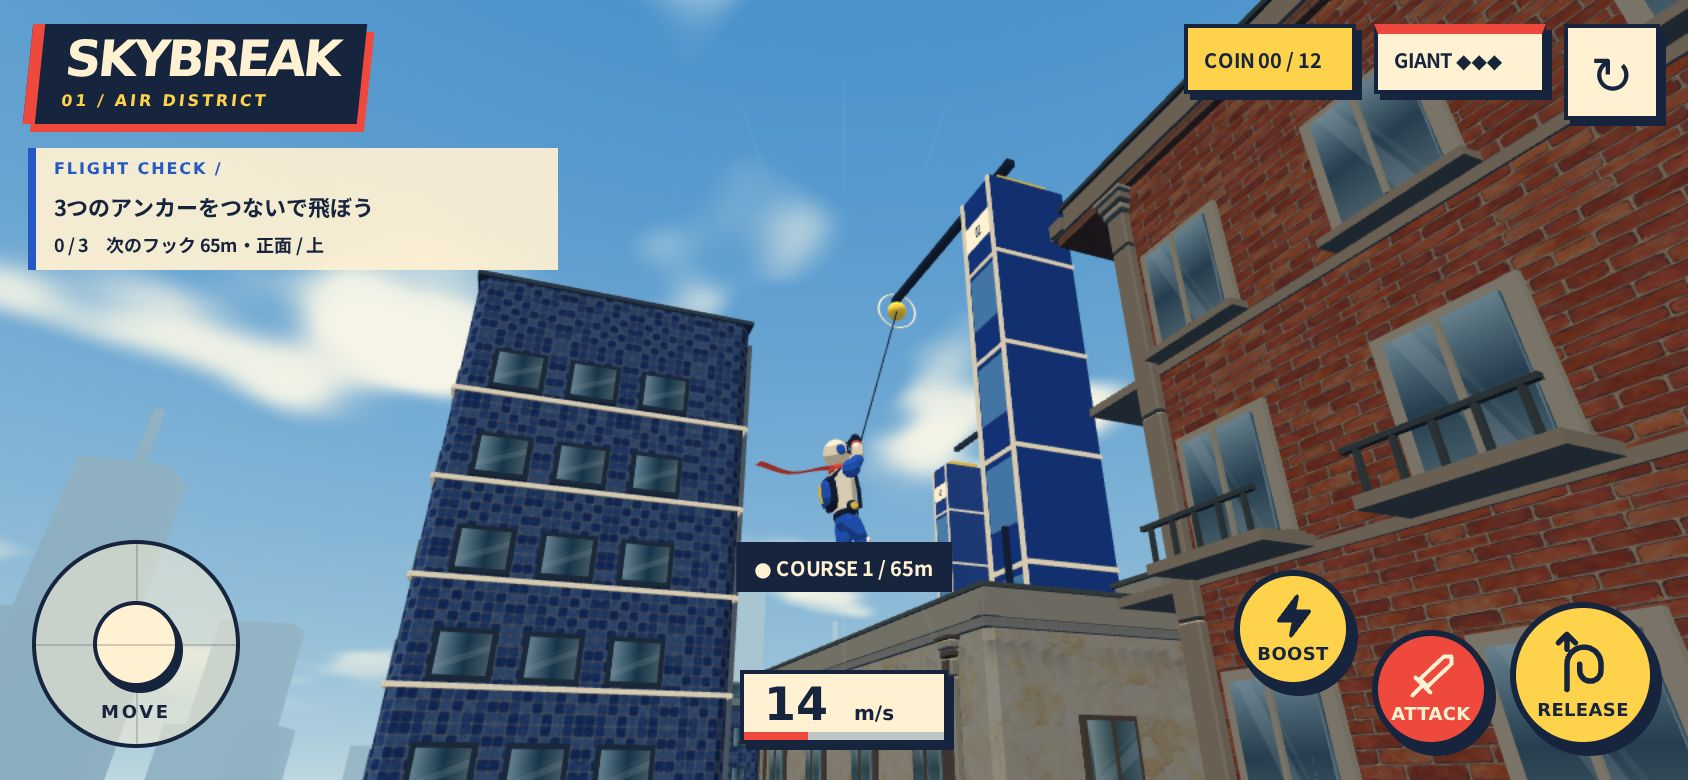
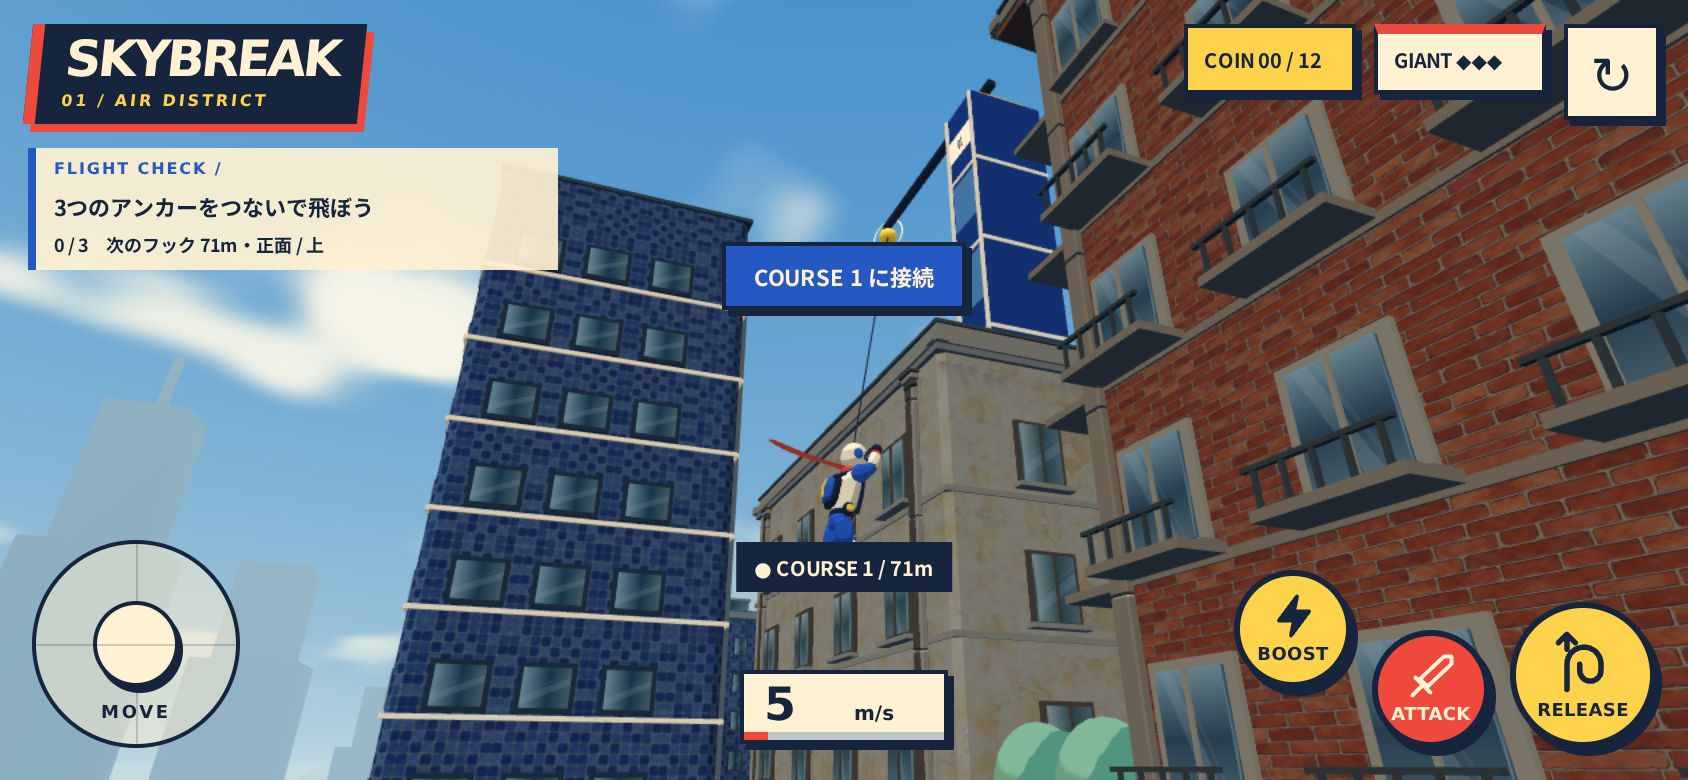
Give wire swings more inertia and a grounded hanging pose

diff --git a/src/flight.ts b/src/flight.ts
@@ -31,15 +31,15 @@ export const attachToAnchor = (state: FlightState, anchor: FlightVec, cameraForw
   if (state.grounded) {
     const towardAnchor: FlightVec = [-offset[0], 0, -offset[2]];
     const forward = normalize(length(towardAnchor) > .1 ? towardAnchor : [cameraForward[0], 0, cameraForward[2]]);
-    state.velocity[0] += forward[0] * 12;
-    state.velocity[2] += forward[2] * 12;
+    state.velocity[0] += forward[0] * 8;
+    state.velocity[2] += forward[2] * 8;
     // Street-level recovery needs enough lift to leave the ground and steer.
     // Launch vertically first so a nearby facade does not cancel takeoff at once.
     if (state.position[1] <= 1.16) {
       state.velocity[0] = 0;
       state.velocity[2] = 0;
-      state.velocity[1] = Math.max(state.velocity[1], 28);
-    } else state.velocity[1] = Math.max(state.velocity[1], 8);
+      state.velocity[1] = Math.max(state.velocity[1], 18);
+    } else state.velocity[1] = Math.max(state.velocity[1], 6);
     state.grounded = false;
   }
 };
@@ -52,15 +52,15 @@ export const stepAttached = (state: FlightState, anchor: FlightVec, input: Fligh
   const tangent: FlightVec = [input[0] - radial[0] * tangentDot, input[1] - radial[1] * tangentDot, input[2] - radial[2] * tangentDot];
   // Preserve analogue input strength; do not turn a tiny joystick movement
   // (or an almost radial input) into full-strength tangential acceleration.
-  state.velocity[0] += tangent[0] * 28 * dt;
-  state.velocity[1] += tangent[1] * 28 * dt;
-  state.velocity[2] += tangent[2] * 28 * dt;
+  state.velocity[0] += tangent[0] * 16 * dt;
+  state.velocity[1] += tangent[1] * 16 * dt;
+  state.velocity[2] += tangent[2] * 16 * dt;
   if (boosting) {
     const boostSource = length(input) > 0.001 ? input : boostForward;
     const boostDirection = normalize([boostSource[0], Math.max(0, boostSource[1]), boostSource[2]]);
-    state.velocity[0] += boostDirection[0] * 34 * dt;
-    state.velocity[1] += boostDirection[1] * 34 * dt;
-    state.velocity[2] += boostDirection[2] * 34 * dt;
+    state.velocity[0] += boostDirection[0] * 24 * dt;
+    state.velocity[1] += boostDirection[1] * 24 * dt;
+    state.velocity[2] += boostDirection[2] * 24 * dt;
     // Boost is thrust, not an automatic winch: keep the captured rope length.
   }
   const speed = length(state.velocity);
@@ -92,16 +92,16 @@ export const stepAttached = (state: FlightState, anchor: FlightVec, input: Fligh
 export const releaseFlight = (state: FlightState): void => { state.attached = false; };
 
 export const stepDetached = (state: FlightState, input: FlightVec, dt: number, boosting: boolean, boostForward: FlightVec = [0, 0.35, 1], gravity = -18, maxSpeed = 42, integratePosition = true): void => {
-  const drag = Math.pow(0.997, dt * 60);
-  const steering = (boosting ? 18 : 15) * dt;
+  const drag = Math.pow(0.999, dt * 60);
+  const steering = (boosting ? 10 : 8) * dt;
   state.velocity[0] = state.velocity[0] * drag + input[0] * steering;
   state.velocity[2] = state.velocity[2] * drag + input[2] * steering;
   state.velocity[1] += gravity * dt;
   if (boosting) {
     const boostDirection = normalize([boostForward[0], Math.max(0, boostForward[1]), boostForward[2]]);
-    state.velocity[0] += boostDirection[0] * 26 * dt;
-    state.velocity[1] += boostDirection[1] * 26 * dt;
-    state.velocity[2] += boostDirection[2] * 26 * dt;
+    state.velocity[0] += boostDirection[0] * 20 * dt;
+    state.velocity[1] += boostDirection[1] * 20 * dt;
+    state.velocity[2] += boostDirection[2] * 20 * dt;
   }
   const speed = length(state.velocity);
   if (speed > maxSpeed) {

diff --git a/src/character-models.ts b/src/character-models.ts
@@ -136,16 +136,18 @@ export function characterModels(scene: Scene, paint: Paints) {
     }
     batchJoint(body);
     let phase=0;
-    return (dt:number,speed:number,grounded:boolean,attached:boolean) => {
+    return (dt:number,speed:number,grounded:boolean,attached:boolean,wireLean=0) => {
       phase+=dt*(4+speed*.25);const stride=Math.min(.7,speed*.055);
-      body.rotation.x=grounded?-.035:-.15; body.rotation.z=grounded?Math.sin(phase)*stride*.04:Math.sin(phase*.45)*.035;
+      const lean=grounded?-.035:attached?Math.max(-.3,Math.min(.3,wireLean*.45)):-.15;
+      body.rotation.x+=(lean-body.rotation.x)*(1-Math.exp(-6*dt));
+      body.rotation.z=grounded?Math.sin(phase)*stride*.04:attached?0:Math.sin(phase*.45)*.02;
       for(const {arm,elbow,leg,knee,side} of limbs){
         const walk=Math.sin(phase+(side<0?0:Math.PI));
         arm.rotation.x=grounded?walk*stride:(attached?-2.35:-1.0);
         arm.rotation.z=-side*(grounded?.12:.28);
         elbow.rotation.x=grounded?-.22:-.6;
         leg.rotation.x=grounded?-walk*stride:(side<0?.15:-.4);
-        knee.rotation.x=grounded?Math.max(0,walk)*stride:.75+(side<0?.2:0);
+        knee.rotation.x=grounded?Math.max(0,walk)*stride:attached?.28+(side<0?.08:0):.75+(side<0?.2:0);
       }
       for(let i=0;i<=segments;i++) {
         const t=i/segments,w=.105*(1-t*.48),x=Math.sin(phase*.7-t*5)*t*.16,y=.1*Math.sin(t*4+phase)*t;

diff --git a/src/main.ts b/src/main.ts
@@ -922,7 +922,9 @@ engine.runRenderLoop(() => {
   }
   art.updateEffects(dt);
   updateSky(dt);
-  animateHero(dt, velocity.length(), grounded, !!attachedAnchor);
+  const wireOffset = attachedAnchor?.position.subtract(playerPosition);
+  const wireLean = wireOffset ? Math.atan2(wireOffset.x*Math.sin(player.rotation.y)+wireOffset.z*Math.cos(player.rotation.y), Math.max(.5,wireOffset.y)) : 0;
+  animateHero(dt, velocity.length(), grounded, !!attachedAnchor, wireLean);
   animateGiant(now / 1000, giantHp, weakpointFlash);
   weakpoint.setEnabled(giantHp > 0);
   weakpointRing.setEnabled(giantHp > 0);
